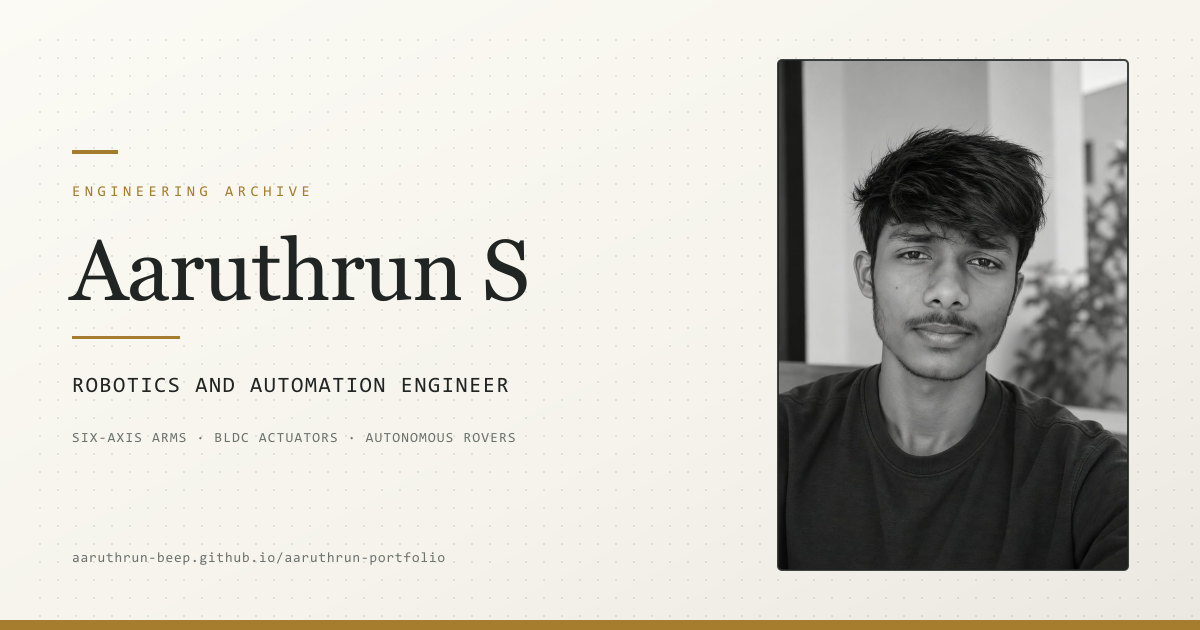
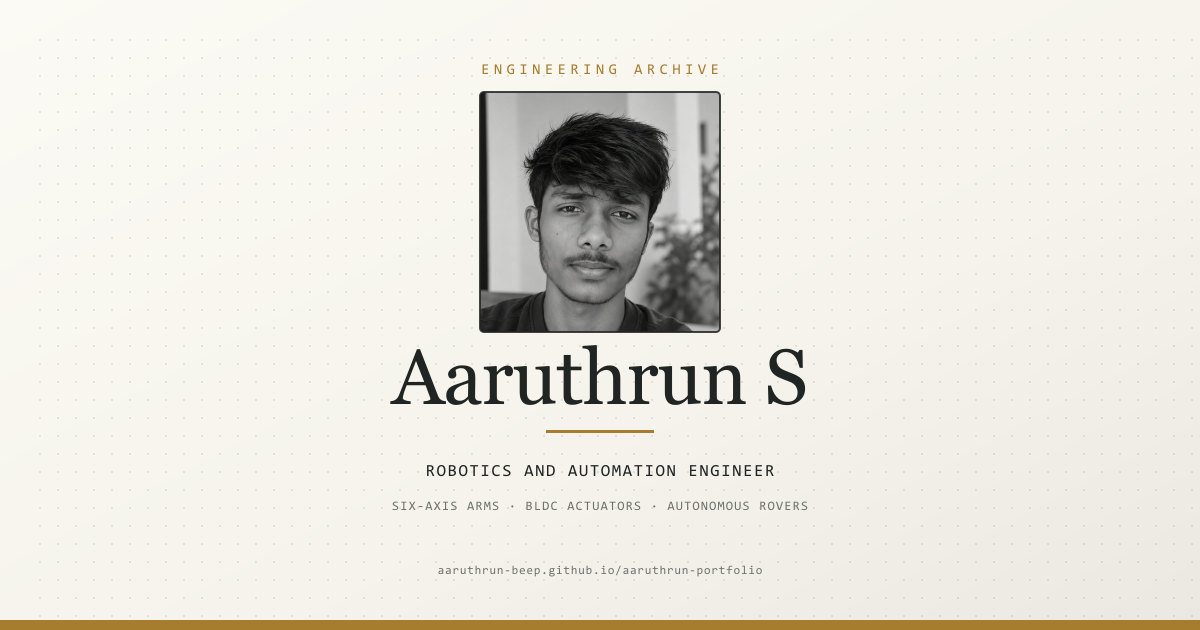
Centre the site card and mark the header with Tesla.
The portrait card put the name and role on the left, which WhatsApp's square crop
cut in half; the kicker, framed portrait, name, role and specialities are now
centred inside that square, and the card URL moves to ?v=3 so unfurlers stop
serving the old image. The header mark now uses Tesla's portrait instead of the
owner's, cropped to the face.

🤖 Generated with Codebuff

diff --git a/tools/make-brand-images.js b/tools/make-brand-images.js
@@ -1,14 +1,23 @@
 /**
  * AARUTHRUN PORTFOLIO — BRAND IMAGES
  *
- * Builds the two identity images from the portrait in images/aaruthrun.jpeg:
+ * Builds the two identity images:
  *
- *   images/logo/aaruthrun-logo.png   square crop of the face, used in the header
- *   images/og-image.jpg              1200x630 card used for link previews
+ *   images/logo/aaruthrun-logo.png   square crop of Tesla's portrait, used in
+ *                                    the header beside the wordmark
+ *   images/og-image.jpg              1200x630 card used for link previews,
+ *                                    built from the portrait in
+ *                                    images/aaruthrun.jpeg
  *                                    (WhatsApp, Slack, X, iMessage…)
  *
  * The preview card has to be a JPEG: WhatsApp and several other unfurlers do
  * not decode WebP, and they want a wide 1.91:1 image under a few hundred KB.
+ *
+ * It is composed centre-safe, like the project and field-note cards: Telegram
+ * and Twitter show the whole 1.91:1 rectangle, but WhatsApp's link preview is a
+ * square cut from the centre of the image. Everything — kicker, portrait, name,
+ * role — therefore sits inside the centre 630x630 square (x 285..915), and the
+ * cream margins either side are trim.
  *
  * Run: node tools/make-brand-images.js
  */
@@ -19,6 +28,7 @@ const sharp = require('sharp');
 
 const ROOT = path.resolve(__dirname, '..');
 const PORTRAIT = path.join(ROOT, 'images/aaruthrun.jpeg');
+const BRAND_PORTRAIT = path.join(ROOT, 'images/tesla-portrait.jpg');
 const LOGO_OUT = path.join(ROOT, 'images/logo/aaruthrun-logo.png');
 const OG_OUT = path.join(ROOT, 'images/og-image.jpg');
 
@@ -39,11 +49,11 @@ const MUTED = '#6C736E';
 async function buildLogo() {
   fs.mkdirSync(path.dirname(LOGO_OUT), { recursive: true });
 
-  // The portrait is 1088x1445 with the head centred on x≈530. A 720px square
-  // from (170, 145) leaves a little headroom above the hair while stopping at
-  // the shoulders.
-  await sharp(PORTRAIT)
-    .extract({ left: 170, top: 145, width: 720, height: 720 })
+  // The header mark is Tesla rather than the site owner. His portrait is
+  // 560x751 with the head from roughly y 45 (hair) to y 430 (chin); a 380px
+  // square from (120, 55) frames the head with a little of the collar.
+  await sharp(BRAND_PORTRAIT)
+    .extract({ left: 120, top: 55, width: 380, height: 380 })
     .resize(160, 160, { fit: 'cover' })
     .png({ compressionLevel: 9 })
     .toFile(LOGO_OUT);
@@ -59,13 +69,20 @@ async function buildCard() {
   const W = 1200;
   const H = 630;
 
-  // Photo panel, inset from the right edge like a framed print.
-  const PW = 350;
-  const PH = 510;
-  const PX = W - 72 - PW;
-  const PY = (H - PH) / 2;
+  // WhatsApp keeps only a centred 630x630 square; everything readable goes in it.
+  const CENTRE = W / 2;
+
+  // Portrait panel, a framed print centred above the name. The card crop is
+  // wider than the icon crop so the frame carries the shoulders too; a head
+  // alone reads as a mugshot at this size.
+  const CARD_CROP = { left: 96, top: 116, width: 896, height: 896 };
+  const PW = 240;
+  const PH = 240;
+  const PX = (W - PW) / 2;
+  const PY = 92;
 
   const photo = await sharp(PORTRAIT)
+    .extract(CARD_CROP)
     .resize(PW * 2, PH * 2, { fit: 'cover', position: 'top' })
     .jpeg({ quality: 88 })
     .toBuffer();
@@ -93,24 +110,22 @@ async function buildCard() {
          preserveAspectRatio="xMidYMin slice" clip-path="url(#photoClip)"/>
   <rect x="${PX}" y="${PY}" width="${PW}" height="${PH}" rx="4" fill="none" stroke="${INK}" stroke-opacity="0.85" stroke-width="2"/>
 
-  <rect x="72" y="150" width="46" height="4" fill="${GOLD}"/>
-
-  <text x="72" y="196" font-family="JetBrains Mono, DejaVu Sans Mono, Consolas, monospace"
+  <text x="${CENTRE}" y="74" text-anchor="middle" font-family="JetBrains Mono, DejaVu Sans Mono, Consolas, monospace"
         font-size="15" letter-spacing="4.5" fill="${GOLD}">ENGINEERING ARCHIVE</text>
 
-  <text x="70" y="300" font-family="DM Serif Display, Georgia, 'Times New Roman', serif"
-        font-size="86" letter-spacing="-1" fill="${INK}">${NAME}</text>
+  <text x="${CENTRE}" y="404" text-anchor="middle" font-family="DM Serif Display, Georgia, 'Times New Roman', serif"
+        font-size="78" letter-spacing="-1" fill="${INK}">${NAME}</text>
 
-  <rect x="72" y="336" width="108" height="3" fill="${GOLD}"/>
+  <rect x="${CENTRE - 54}" y="430" width="108" height="3" fill="${GOLD}"/>
 
-  <text x="72" y="392" font-family="JetBrains Mono, DejaVu Sans Mono, Consolas, monospace"
-        font-size="22" letter-spacing="1.6" fill="${INK}">${ROLE}</text>
+  <text x="${CENTRE}" y="476" text-anchor="middle" font-family="JetBrains Mono, DejaVu Sans Mono, Consolas, monospace"
+        font-size="17" letter-spacing="1.6" fill="${INK}">${ROLE}</text>
 
-  <text x="72" y="442" font-family="JetBrains Mono, DejaVu Sans Mono, Consolas, monospace"
-        font-size="14" letter-spacing="1.2" fill="${MUTED}">${LINE}</text>
+  <text x="${CENTRE}" y="510" text-anchor="middle" font-family="JetBrains Mono, DejaVu Sans Mono, Consolas, monospace"
+        font-size="13" letter-spacing="1.2" fill="${MUTED}">${LINE}</text>
 
-  <text x="72" y="562" font-family="JetBrains Mono, DejaVu Sans Mono, Consolas, monospace"
-        font-size="14" letter-spacing="0.8" fill="${MUTED}">${SITE}</text>
+  <text x="${CENTRE}" y="574" text-anchor="middle" font-family="JetBrains Mono, DejaVu Sans Mono, Consolas, monospace"
+        font-size="12" letter-spacing="0.8" fill="${MUTED}">${SITE}</text>
 
   <rect x="0" y="${H - 10}" width="${W}" height="10" fill="${GOLD}"/>
 </svg>`;

diff --git a/index.html b/index.html
@@ -33,7 +33,7 @@
   <meta property="og:title" content="Aaruthrun — Robotics &amp; Automation Engineering Archive">
 
   <meta property="og:description" content="Six-axis arms, BLDC actuators, autonomous rovers, and the build notes behind them.">
-  <meta property="og:image" content="https://aaruthrun-beep.github.io/aaruthrun-portfolio/images/og-image.jpg?v=2">
+  <meta property="og:image" content="https://aaruthrun-beep.github.io/aaruthrun-portfolio/images/og-image.jpg?v=3">
   <meta property="og:image:type" content="image/jpeg">
   <meta property="og:image:width" content="1200">
   <meta property="og:image:height" content="630">
@@ -41,7 +41,7 @@
   <meta property="og:type" content="website">
   <meta property="og:url" content="https://aaruthrun-beep.github.io/aaruthrun-portfolio/">
   <meta name="twitter:card" content="summary_large_image">
-  <meta name="twitter:image" content="https://aaruthrun-beep.github.io/aaruthrun-portfolio/images/og-image.jpg?v=2">
+  <meta name="twitter:image" content="https://aaruthrun-beep.github.io/aaruthrun-portfolio/images/og-image.jpg?v=3">
 
   <link rel="preconnect" href="https://fonts.googleapis.com">
   <link rel="preconnect" href="https://fonts.gstatic.com" crossorigin>
@@ -57,7 +57,7 @@
 
   <link rel="stylesheet" href="styles/readability.css?v=2026-11-16">
 
-  <script type="application/ld+json">{"@context":"https://schema.org","@type":"Person","name":"Aaruthrun S","url":"https://aaruthrun-beep.github.io/aaruthrun-portfolio/","image":"https://aaruthrun-beep.github.io/aaruthrun-portfolio/images/og-image.jpg?v=2","jobTitle":"Robotics and Automation Engineer","description":"Builds robots, motor controllers and embedded firmware: six-axis arms, BLDC actuators and autonomous rovers.","address":{"@type":"PostalAddress","addressLocality":"Coimbatore","addressCountry":"IN"},"knowsAbout":["Robotics","Mechatronics","Control Systems","Embedded Firmware","3D Printing"]}</script>
+  <script type="application/ld+json">{"@context":"https://schema.org","@type":"Person","name":"Aaruthrun S","url":"https://aaruthrun-beep.github.io/aaruthrun-portfolio/","image":"https://aaruthrun-beep.github.io/aaruthrun-portfolio/images/og-image.jpg?v=3","jobTitle":"Robotics and Automation Engineer","description":"Builds robots, motor controllers and embedded firmware: six-axis arms, BLDC actuators and autonomous rovers.","address":{"@type":"PostalAddress","addressLocality":"Coimbatore","addressCountry":"IN"},"knowsAbout":["Robotics","Mechatronics","Control Systems","Embedded Firmware","3D Printing"]}</script>
   <script type="application/ld+json">{"@context":"https://schema.org","@type":"WebSite","name":"Aaruthrun — Engineering Archive","url":"https://aaruthrun-beep.github.io/aaruthrun-portfolio/","inLanguage":"en","author":{"@type":"Person","name":"Aaruthrun S"}}</script>
 
 </head>

diff --git a/timeline.html b/timeline.html
@@ -31,7 +31,7 @@
   <!-- OpenGraph Metadata -->
   <meta property="og:title" content="Concurrent Project Timeline — Aaruthrun">
   <meta property="og:description" content="Visualizing simultaneous multi-disciplinary execution: 6-DOF manipulators, FOC motor control, autonomous rovers, and modular swarms.">
-  <meta property="og:image" content="https://aaruthrun-beep.github.io/aaruthrun-portfolio/images/og-image.jpg?v=2">
+  <meta property="og:image" content="https://aaruthrun-beep.github.io/aaruthrun-portfolio/images/og-image.jpg?v=3">
   <meta property="og:type" content="website">
   <meta name="twitter:card" content="summary_large_image">
 

diff --git a/contact.html b/contact.html
@@ -31,7 +31,7 @@
   <!-- OpenGraph Metadata -->
   <meta property="og:title" content="Contact &amp; Collaboration — Aaruthrun">
   <meta property="og:description" content="Open to robotics engineering roles, mechatronic design work, and research collaboration. Direct channels and a short contact form.">
-  <meta property="og:image" content="https://aaruthrun-beep.github.io/aaruthrun-portfolio/images/og-image.jpg?v=2">
+  <meta property="og:image" content="https://aaruthrun-beep.github.io/aaruthrun-portfolio/images/og-image.jpg?v=3">
   <meta property="og:type" content="website">
   <meta name="twitter:card" content="summary_large_image">
 

diff --git a/about.html b/about.html
@@ -18,7 +18,7 @@
   <link rel="canonical" href="https://aaruthrun-beep.github.io/aaruthrun-portfolio/index.html">
   <meta property="og:title" content="About Aaruthrun — Robotics & Automation Engineer">
   <meta property="og:description" content="Biography, engineering philosophy, and hands-on fabrication background.">
-  <meta property="og:image" content="https://aaruthrun-beep.github.io/aaruthrun-portfolio/images/og-image.jpg?v=2">
+  <meta property="og:image" content="https://aaruthrun-beep.github.io/aaruthrun-portfolio/images/og-image.jpg?v=3">
   <meta property="og:type" content="profile">
 
   <style>

diff --git a/project.html b/project.html
@@ -31,7 +31,7 @@
 
   <meta property="og:title" content="Project Documentation — Aaruthrun">
   <meta property="og:description" content="How the builds were made: architecture, development records, test notes and build logs.">
-  <meta property="og:image" content="https://aaruthrun-beep.github.io/aaruthrun-portfolio/images/og-image.jpg?v=2">
+  <meta property="og:image" content="https://aaruthrun-beep.github.io/aaruthrun-portfolio/images/og-image.jpg?v=3">
   <meta property="og:type" content="article">
   <meta name="twitter:card" content="summary_large_image">
   <!-- build-pages:meta:end -->

diff --git a/projects.html b/projects.html
@@ -30,7 +30,7 @@
 
   <meta property="og:title" content="Engineering Projects Archive — Aaruthrun">
   <meta property="og:description" content="Featured six-axis arms, a scrap-built robot and an autonomous rover, plus the wider engineering archive.">
-  <meta property="og:image" content="https://aaruthrun-beep.github.io/aaruthrun-portfolio/images/og-image.jpg?v=2">
+  <meta property="og:image" content="https://aaruthrun-beep.github.io/aaruthrun-portfolio/images/og-image.jpg?v=3">
   <meta property="og:type" content="website">
   <meta name="twitter:card" content="summary_large_image">
 

diff --git a/education.html b/education.html
@@ -30,7 +30,7 @@
 
   <meta property="og:title" content="Academic Profile — Aaruthrun">
   <meta property="og:description" content="Formal qualifications and technical training of a robotics and automation engineering student.">
-  <meta property="og:image" content="https://aaruthrun-beep.github.io/aaruthrun-portfolio/images/og-image.jpg?v=2">
+  <meta property="og:image" content="https://aaruthrun-beep.github.io/aaruthrun-portfolio/images/og-image.jpg?v=3">
   <meta property="og:type" content="website">
   <meta name="twitter:card" content="summary_large_image">
 

diff --git a/journal.html b/journal.html
@@ -30,7 +30,7 @@
 
   <meta property="og:title" content="Field Notes — Aaruthrun">
   <meta property="og:description" content="An engineering journal for the builds: experiments, measurements, failures and fixes.">
-  <meta property="og:image" content="https://aaruthrun-beep.github.io/aaruthrun-portfolio/images/og-image.jpg?v=2">
+  <meta property="og:image" content="https://aaruthrun-beep.github.io/aaruthrun-portfolio/images/og-image.jpg?v=3">
   <meta property="og:type" content="website">
   <meta name="twitter:card" content="summary_large_image">
 

diff --git a/skills.html b/skills.html
@@ -30,7 +30,7 @@
 
   <meta property="og:title" content="Engineering Skills — Aaruthrun">
   <meta property="og:description" content="Disciplines cross-linked to real project work, not proficiency scores.">
-  <meta property="og:image" content="https://aaruthrun-beep.github.io/aaruthrun-portfolio/images/og-image.jpg?v=2">
+  <meta property="og:image" content="https://aaruthrun-beep.github.io/aaruthrun-portfolio/images/og-image.jpg?v=3">
   <meta property="og:type" content="website">
   <meta name="twitter:card" content="summary_large_image">
 

diff --git a/cv.html b/cv.html
@@ -14,7 +14,7 @@
   <!-- OpenGraph Metadata -->
   <meta property="og:title" content="Aaruthrun — Curriculum Vitae">
   <meta property="og:description" content="Robotics & Automation Engineering CV">
-  <meta property="og:image" content="https://aaruthrun-beep.github.io/aaruthrun-portfolio/images/og-image.jpg?v=2">
+  <meta property="og:image" content="https://aaruthrun-beep.github.io/aaruthrun-portfolio/images/og-image.jpg?v=3">
   <meta property="og:type" content="website">
   <meta name="twitter:card" content="summary_large_image">
 
